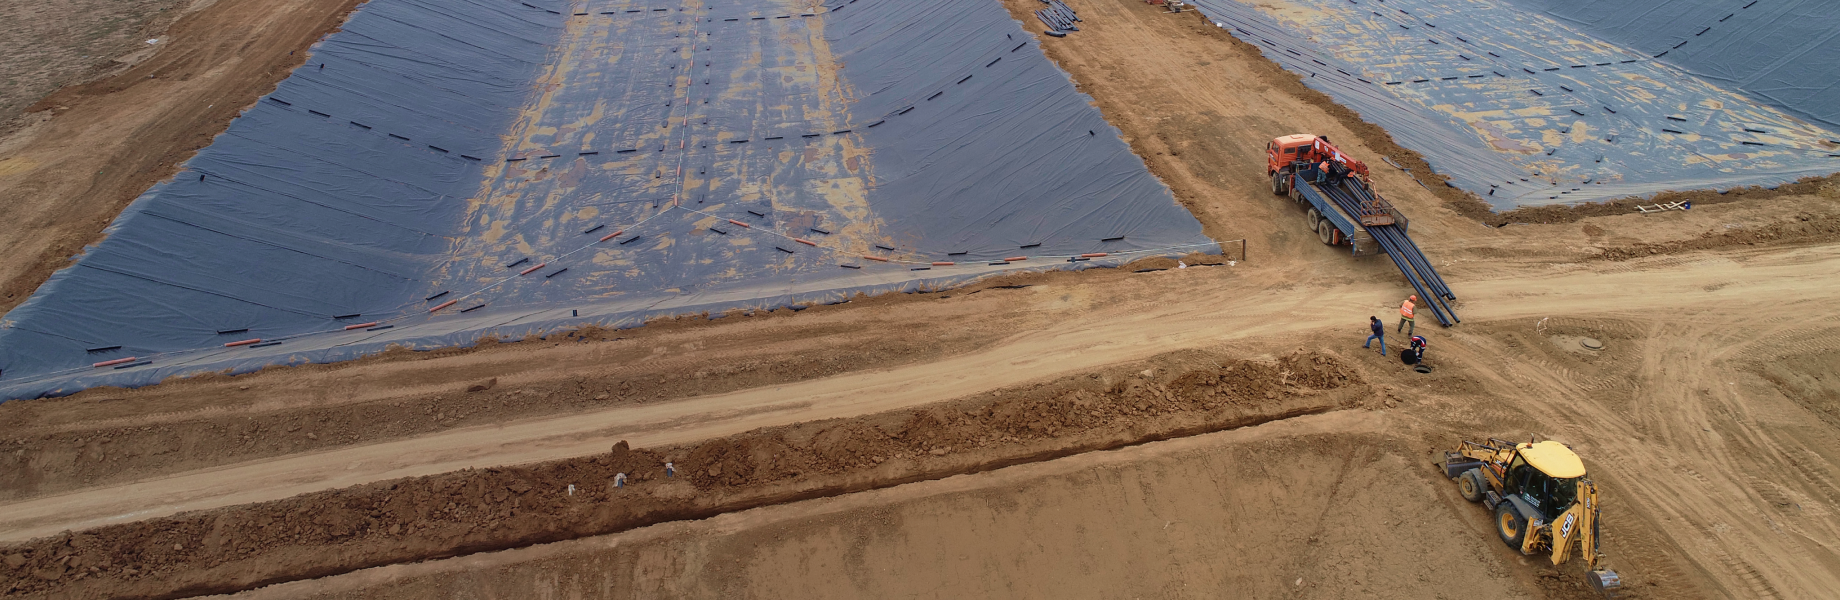
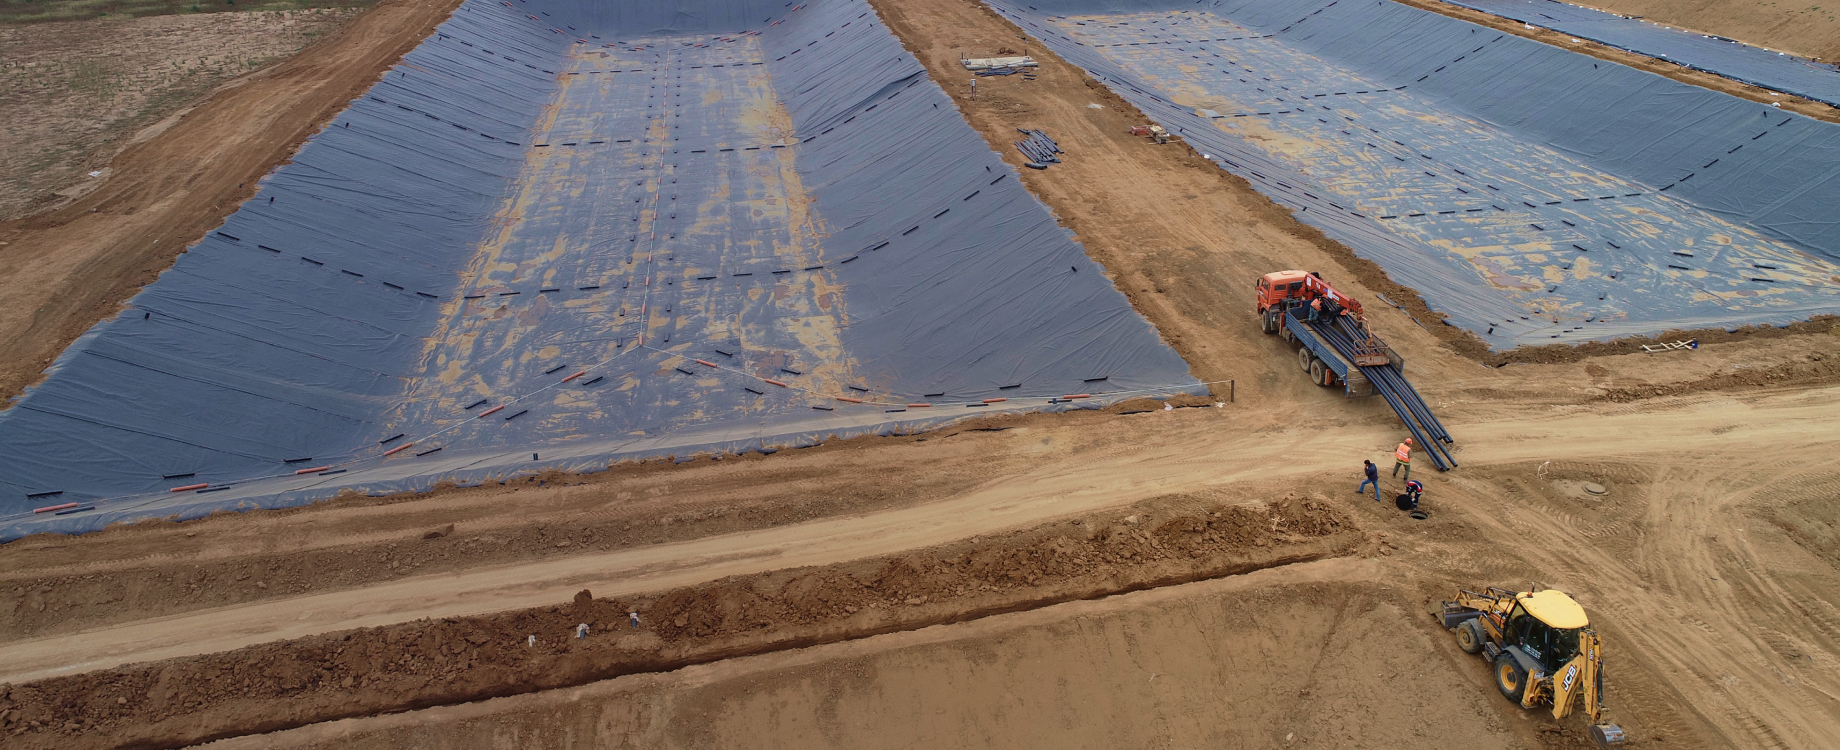
fix: increase knowledge image size on index page

diff --git a/src/views/IndexView.vue b/src/views/IndexView.vue
@@ -809,7 +809,7 @@ onMounted(() => {
 
 @media (min-width: 1920px) {
   .knowledge__image {
-    height: 600px;
+    height: 750px;
     background-image: url("../assets/images/pages/index/knowledge-1920.png");
   }
 }
@@ -879,7 +879,7 @@ onMounted(() => {
 @media (min-width: 1920px) {
   .knowledge__text-on-image:last-of-type {
     right: 646px;
-    bottom: 26px;
+    bottom: 68px;
   }
 }
 
